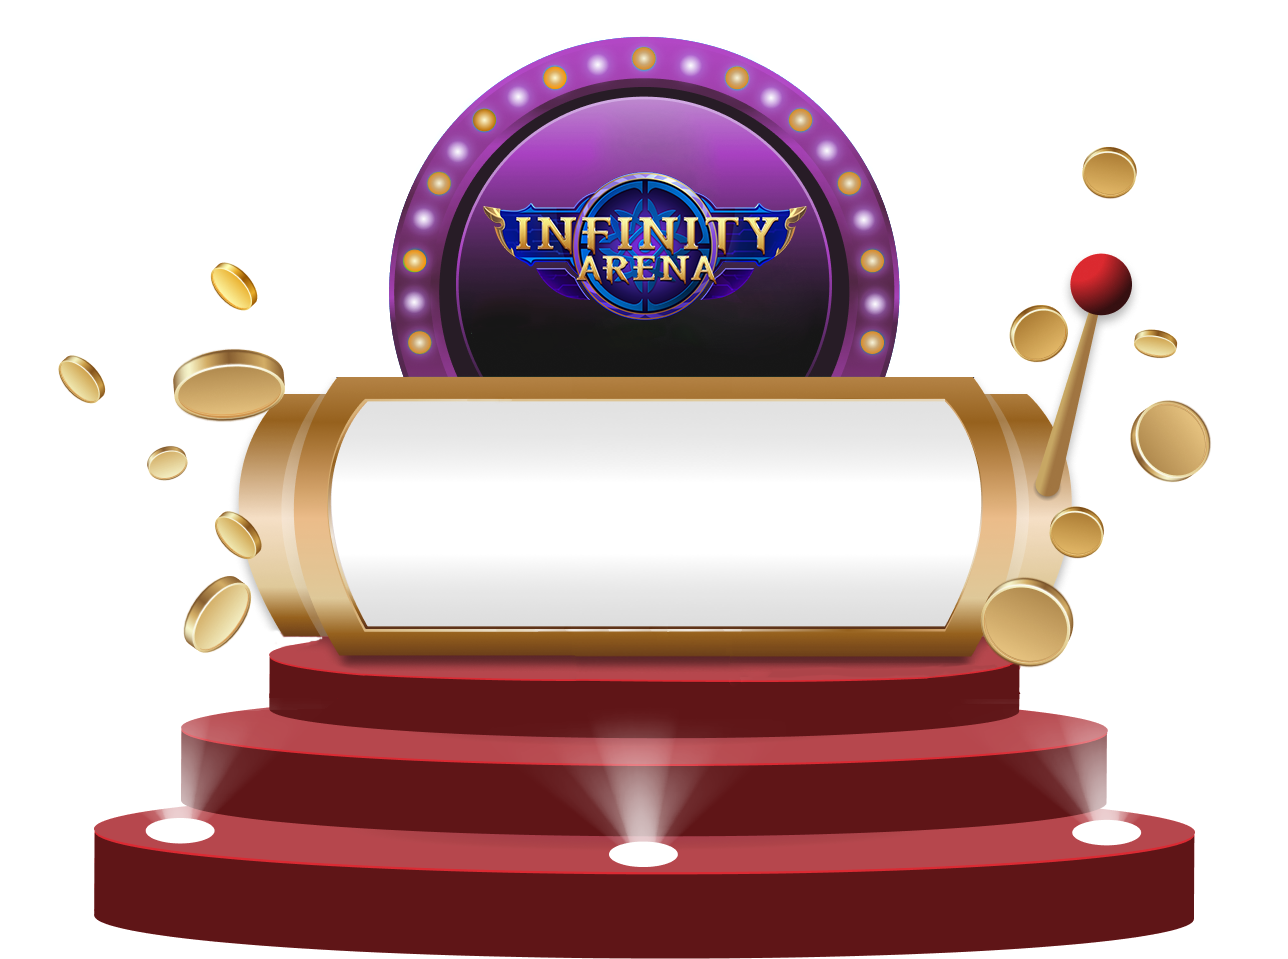
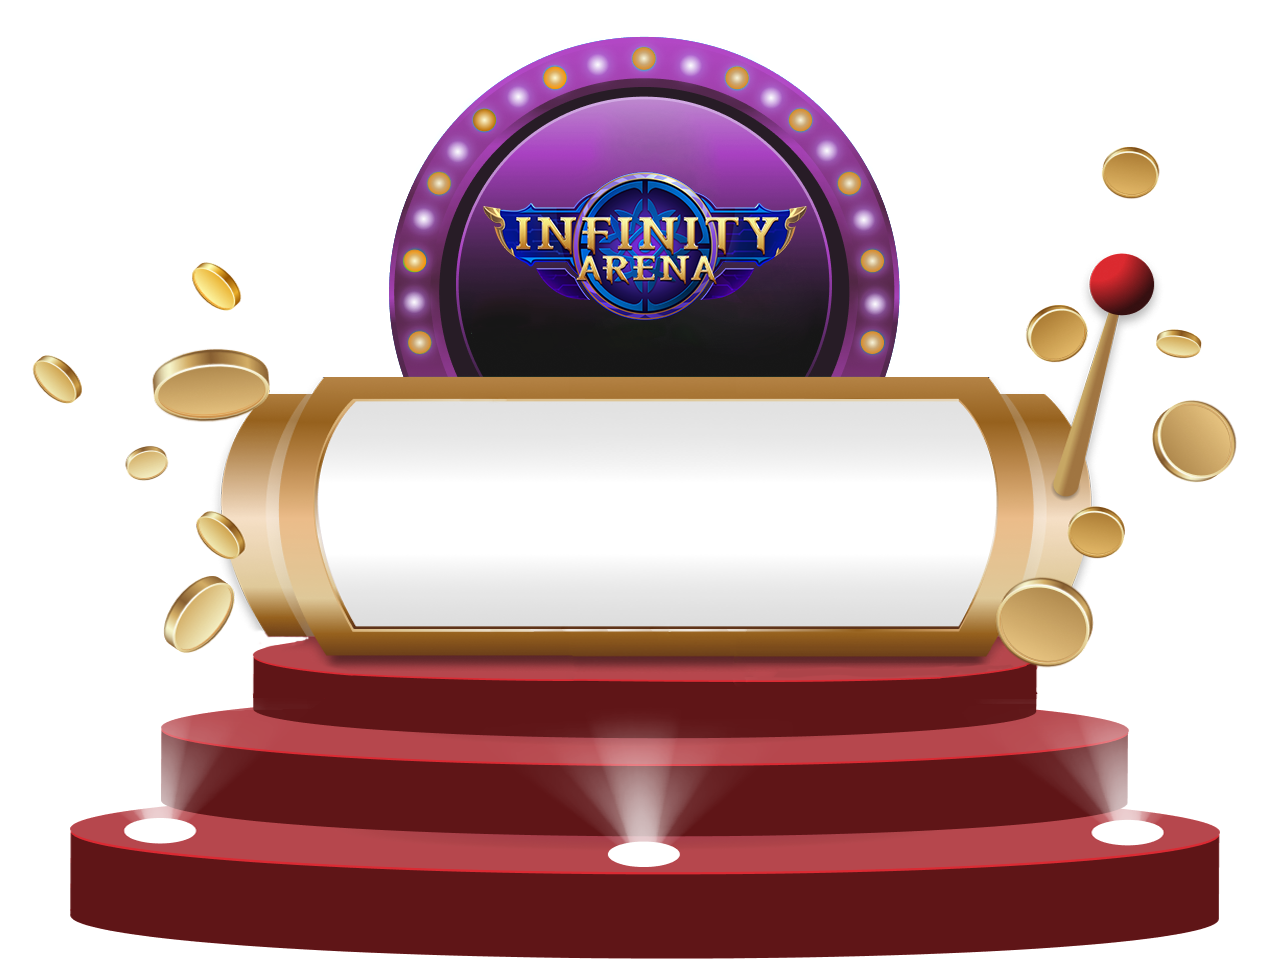
Update for lynn

diff --git a/styles/style.css b/styles/style.css
@@ -322,7 +322,7 @@ footer .content {
 }
 
 #casino .content > div {
-  padding-top: 370px;
+  padding-top: 307px;
   /* padding-left: 60px; */
   width: 630px;
   margin: 0 auto;
